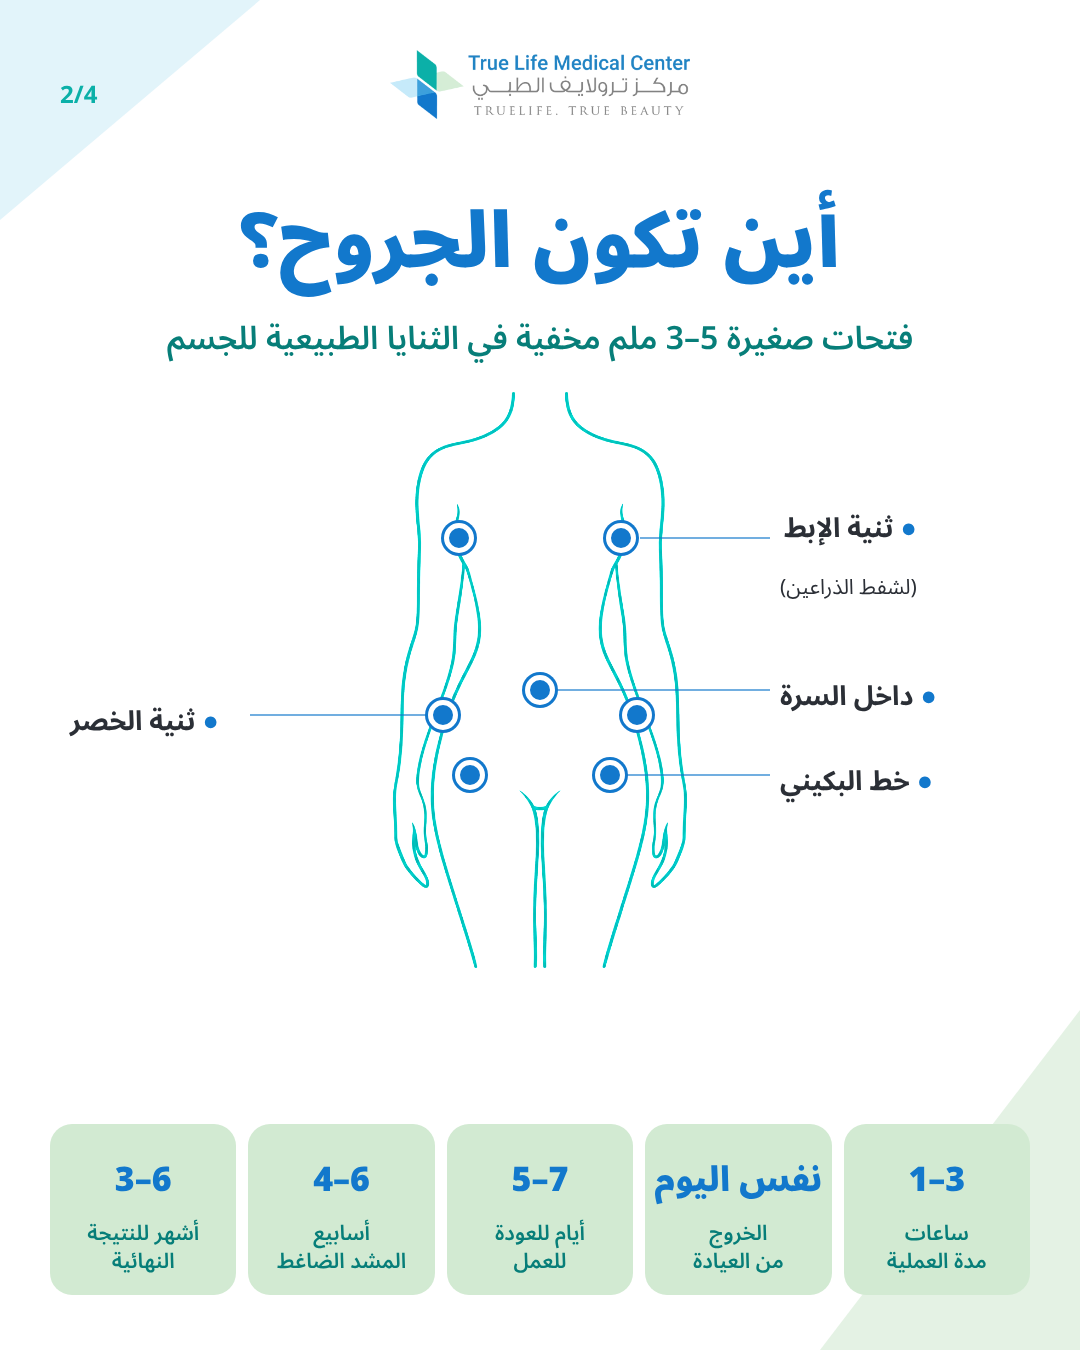
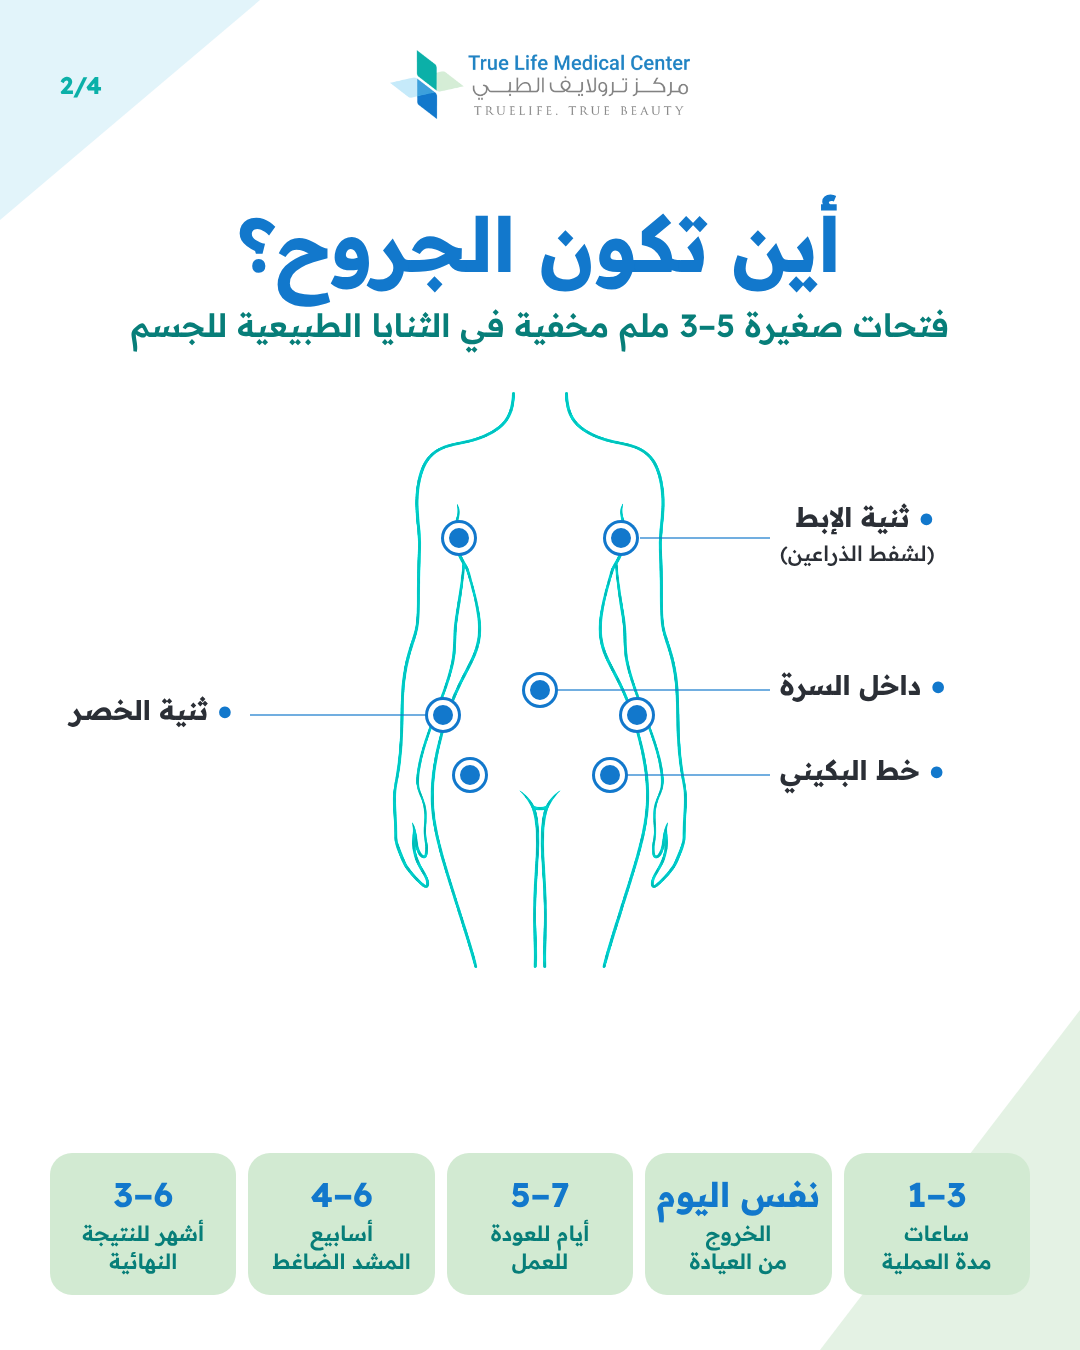
Liposuction carousel: Readex Pro, mirrored cover, full doctor photo
Claude-Session: https://claude.ai/code/session_01EZd6nkjhojbY1JhgPgko2h

diff --git a/designs/plastic/liposuction/carousel.html b/designs/plastic/liposuction/carousel.html
@@ -2,19 +2,19 @@
 <html lang="ar" dir="rtl">
 <head>
 <meta charset="utf-8">
-<link href="https://fonts.googleapis.com/css2?family=Noto+Sans+Arabic:wght@300;400;600;700;800;900&display=swap" rel="stylesheet">
+<link href="https://fonts.googleapis.com/css2?family=Readex+Pro:wght@300;400;500;600;700&display=swap" rel="stylesheet">
 <style>
   :root{--teal:#0BB0A8;--blue:#1278CC;--mint:#D2EAD2;--ice:#C6EAF6;--deepteal:#077E79;--navy:#0E3F6B;--charcoal:#2B2F36;--cloud:#F3F6F8}
   *{margin:0;padding:0;box-sizing:border-box}
-  body{font-family:'Noto Sans Arabic',sans-serif;background:#ddd}
+  body{font-family:'Readex Pro',sans-serif;background:#ddd}
   .slide{width:1080px;height:1350px;position:relative;overflow:hidden;background:#fff;direction:rtl;margin-bottom:20px}
   .bg{position:absolute;inset:0}
   .logo{position:absolute;top:60px;left:50%;transform:translateX(-50%);width:400px}
   .num{position:absolute;top:70px;left:60px;font-size:24px;font-weight:700;color:var(--teal);direction:ltr}
-  .ttl{font-weight:900;color:var(--blue);line-height:1.15}
+  .ttl{font-weight:700;color:var(--blue);line-height:1.15}
   .sub{color:var(--deepteal);font-weight:600}
   /* WhatsApp / location chips, as on the facial card */
-  .chip{display:flex;align-items:center;justify-content:center;gap:14px;height:76px;border-radius:38px;padding:0 30px;font-weight:800}
+  .chip{display:flex;align-items:center;justify-content:center;gap:14px;height:76px;border-radius:38px;padding:0 30px;font-weight:700}
   .chip svg{width:36px;height:36px;flex:none}
   .chip.wa{background:var(--teal);color:#fff;font-size:38px;direction:ltr;box-shadow:0 6px 18px rgba(11,176,168,.28)}
   .chip.loc{background:#fff;border:3px solid var(--mint);color:var(--blue);font-size:30px}
@@ -23,12 +23,12 @@
   .pill i{width:12px;height:12px;background:var(--teal);border-radius:3px;transform:rotate(45deg)}
 
   /* slide 1 */
-  .s1 .model{position:absolute;right:-110px;bottom:0;width:760px}
-  .s1 .tag{position:absolute;top:265px;right:520px;background:var(--blue);color:#fff;font-weight:700;font-size:28px;padding:8px 26px;border-radius:24px}
-  .s1 .ttl{position:absolute;top:340px;left:40px;font-size:92px;width:520px;text-align:right;white-space:nowrap}
-  .s1 .sub{position:absolute;top:490px;left:40px;font-size:38px;width:520px;text-align:right}
-  .s1 .pills{position:absolute;top:610px;left:60px;display:flex;flex-direction:column;align-items:flex-start;gap:18px;width:500px}
-  .s1 .cta{position:absolute;left:60px;bottom:80px;width:520px}
+  .s1 .model{position:absolute;left:-40px;bottom:0;width:690px}
+  .s1 .tag{position:absolute;top:265px;right:60px;background:var(--blue);color:#fff;font-weight:700;font-size:28px;padding:8px 26px;border-radius:24px}
+  .s1 .ttl{position:absolute;top:340px;right:60px;font-size:92px;width:520px;text-align:right;white-space:nowrap}
+  .s1 .sub{position:absolute;top:490px;right:60px;font-size:38px;width:520px;text-align:right}
+  .s1 .pills{position:absolute;top:610px;right:60px;display:flex;flex-direction:column;align-items:flex-start;gap:18px;width:500px}
+  .s1 .cta{position:absolute;right:60px;bottom:80px;width:480px}
   .s1 .cta .chip{font-size:40px;direction:rtl}
 
   /* slide 2 */
@@ -42,7 +42,7 @@
   .lead{position:absolute;height:2px;background:var(--blue);opacity:.6}
   .facts{position:absolute;left:50px;right:50px;bottom:55px;display:grid;grid-template-columns:repeat(5,1fr);gap:12px}
   .fact{background:var(--mint);border-radius:22px;padding:20px 8px;text-align:center}
-  .fact b{display:block;font-size:34px;font-weight:900;color:var(--blue);direction:rtl}
+  .fact b{display:block;font-size:34px;font-weight:700;color:var(--blue);direction:rtl}
   .fact span{display:block;font-size:21px;font-weight:600;color:var(--deepteal);margin-top:4px;line-height:1.3}
 
   /* slide 3 */
@@ -50,7 +50,7 @@
   .s3 .sub{position:absolute;top:315px;width:100%;text-align:center;font-size:32px}
   .tips{position:absolute;top:410px;left:70px;right:70px;display:flex;flex-direction:column;gap:20px}
   .tip{display:flex;align-items:center;gap:26px;background:var(--cloud);border-radius:24px;padding:22px 30px;border-right:10px solid var(--teal)}
-  .tip .n{flex:none;width:64px;height:64px;border-radius:18px;background:var(--blue);color:#fff;font-size:34px;font-weight:900;display:flex;align-items:center;justify-content:center}
+  .tip .n{flex:none;width:64px;height:64px;border-radius:18px;background:var(--blue);color:#fff;font-size:34px;font-weight:700;display:flex;align-items:center;justify-content:center}
   .tip p{font-size:34px;font-weight:700;color:var(--charcoal);line-height:1.35}
   .tip p small{display:block;font-size:24px;font-weight:500;color:#5b6570}
 
@@ -60,12 +60,12 @@
   .s4 .ttl{position:absolute;top:300px;width:100%;text-align:center;color:#fff;font-size:100px}
   .s4 .sub{position:absolute;top:440px;width:100%;text-align:center;color:var(--ice);font-size:36px;font-weight:500}
   .doc{position:absolute;top:540px;left:90px;right:90px;height:470px;background:#fff;border-radius:36px;overflow:hidden}
-  .doc img{position:absolute;left:-70px;bottom:-200px;width:640px}
+  .doc img{position:absolute;left:10px;bottom:0;height:450px;width:auto}
   .doc .txt{position:absolute;right:40px;top:0;bottom:0;width:440px;display:flex;flex-direction:column;justify-content:center;text-align:right}
   .doc .badge{align-self:flex-start;background:var(--mint);color:var(--deepteal);font-weight:700;font-size:24px;border-radius:20px;padding:6px 18px;margin-bottom:16px}
   .doc .avatar{width:170px;height:170px;border-radius:50%;margin:0 auto 22px;background:var(--ice);display:flex;align-items:center;justify-content:center;border:6px solid var(--mint)}
   .doc .avatar svg{width:90px;height:90px}
-  .doc h3{font-size:44px;line-height:1.3;font-weight:900;color:var(--blue)}
+  .doc h3{font-size:44px;line-height:1.3;font-weight:700;color:var(--blue)}
   .doc h4{font-size:30px;font-weight:600;color:var(--deepteal);margin-top:6px}
   .s4 .ctas{position:absolute;left:120px;right:120px;bottom:90px;display:flex;flex-direction:column;gap:18px}
   .s4 .chip.loc{background:transparent;border-color:rgba(198,234,246,.5);color:#fff}
@@ -76,10 +76,10 @@
 <!-- ============ SLIDE 1: promo cover ============ -->
 <section class="slide s1" id="s1">
   <svg class="bg" viewBox="0 0 1080 1350">
-    <polygon points="0,105 70,150 70,470 0,425" fill="#C6EAF6" opacity=".55"/>
-    <polygon points="70,210 210,205 300,265 70,330" fill="#C6EAF6" opacity=".35"/>
-    <polygon points="600,360 1030,0 1030,820 600,820" fill="#0BB0A8"/>
-    <polygon points="1030,560 1080,520 1080,1100 1030,1100" fill="#C6EAF6" opacity=".7"/>
+    <polygon points="1080,105 1010,150 1010,470 1080,425" fill="#C6EAF6" opacity=".55"/>
+    <polygon points="1010,210 870,205 780,265 1010,330" fill="#C6EAF6" opacity=".35"/>
+    <polygon points="480,360 50,0 50,820 480,820" fill="#0BB0A8"/>
+    <polygon points="50,560 0,520 0,1100 50,1100" fill="#C6EAF6" opacity=".7"/>
   </svg>
   <img class="model" src="model_cover.png" alt="">
   <img class="logo" src="../../brand/TL_logo_primary_1024x237.png" alt="True Life Medical Center">
@@ -92,7 +92,7 @@
     <span class="pill"><i></i>مع أخصائي جراحة التجميل</span>
   </div>
   <div class="cta"><div class="chip wa">احجزي استشارتك</div></div>
-  <div class="num">1/4</div>
+  <div class="num" style="left:auto;right:60px">1/4</div>
 </section>
 
 <!-- ============ SLIDE 2: incisions + recovery ============ -->
